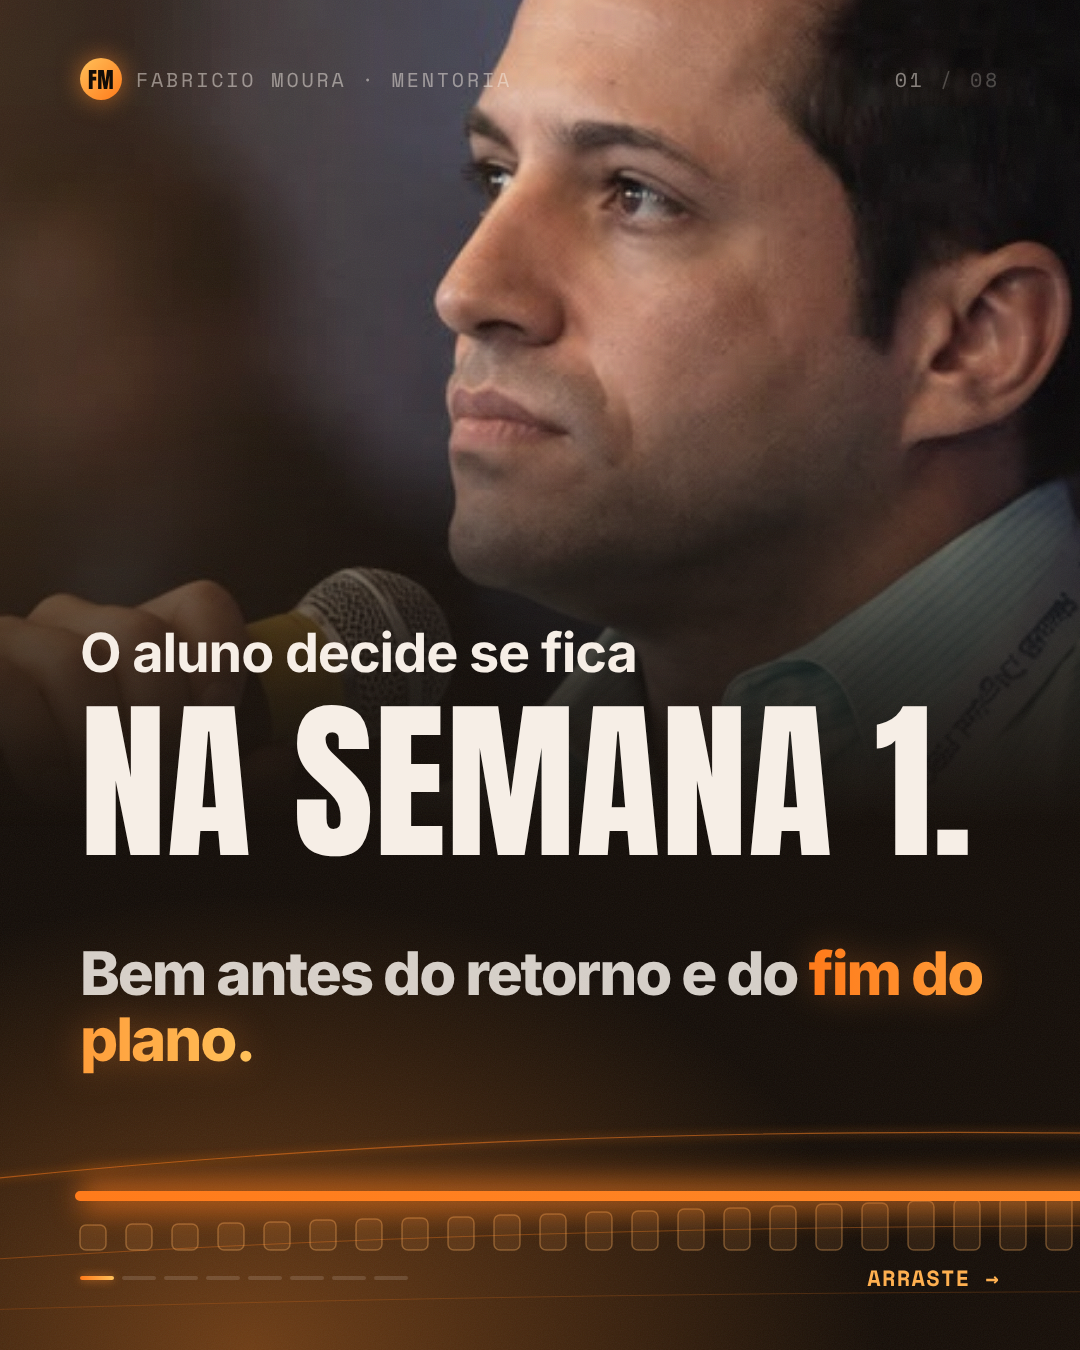
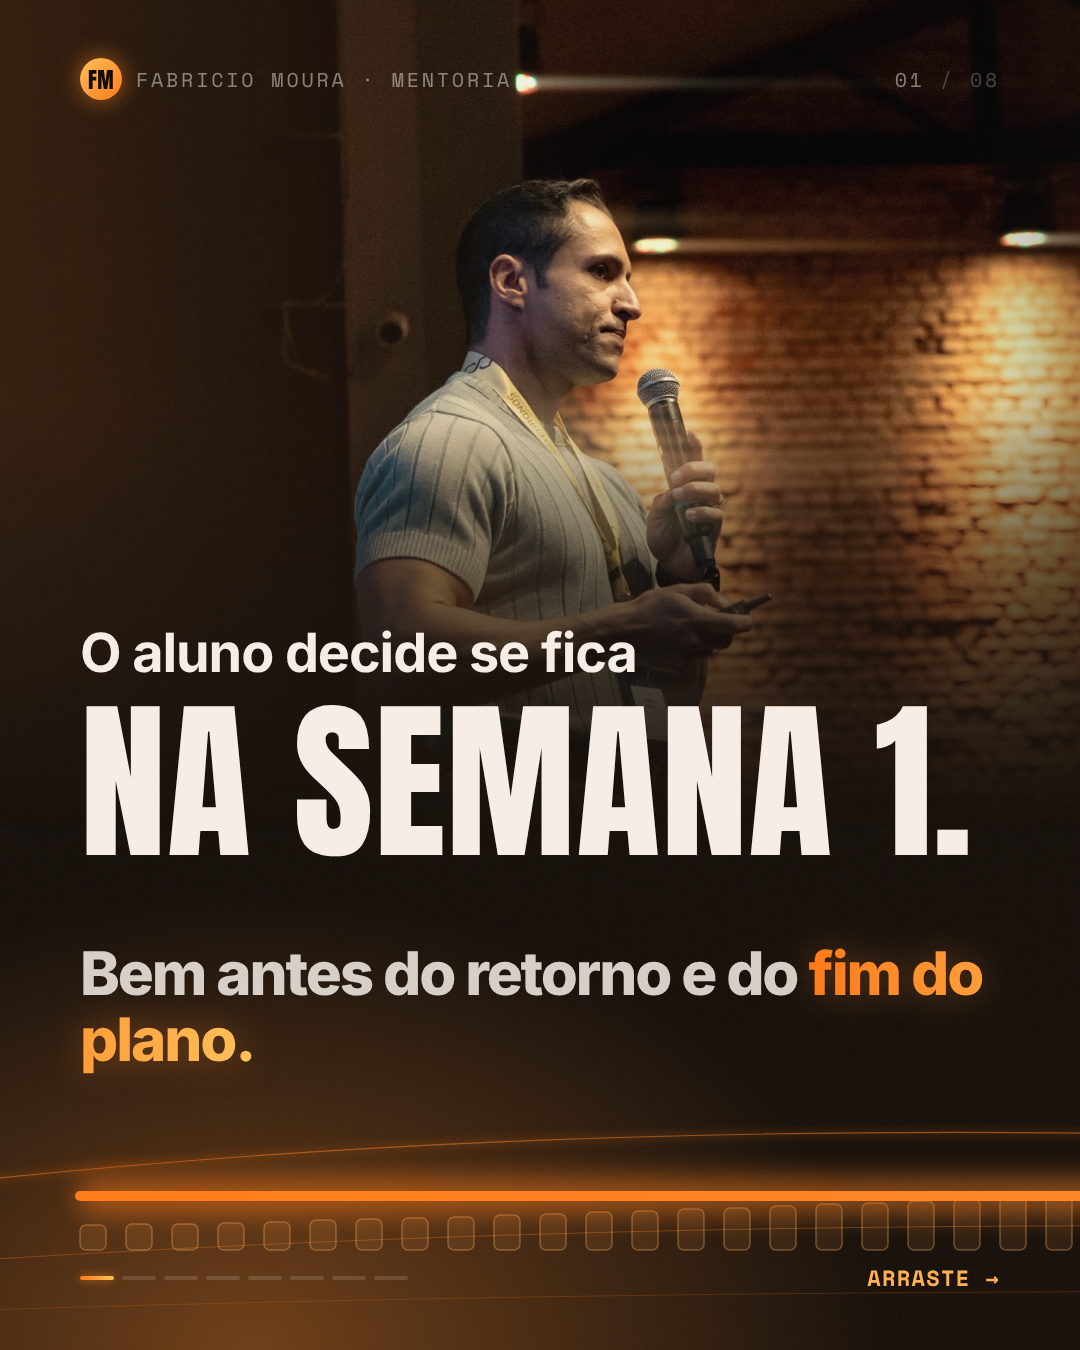
capas dos carrosseis 5, 6 e 7 com fotos novas em alta
Claude-Session: https://claude.ai/code/session_01RK2kDXjzsRYiZHiUi196vp

diff --git a/marketing/instagram/business/c07-4-numeros-glassflow/index.html b/marketing/instagram/business/c07-4-numeros-glassflow/index.html
@@ -161,10 +161,10 @@ svg#flow{position:absolute;left:0;top:0;pointer-events:none;z-index:4}
 .flowph{filter:sepia(.25) saturate(1.1)}
 </style></head>
 <body><div id="pano">
-<div class="flowph" style="background-image:url(../fotos/trofeus.jpg)"></div>
+<div class="flowph" style="background-image:url(../fotos/palco-microfone.jpg)"></div>
 <div class="cblock orange" style="left:3170px;width:1220px;clip-path:polygon(70px 0,100% 0,1150px 100%,0 100%)"></div><div class="cblock cream" style="left:5330px;width:1220px;clip-path:polygon(70px 0,100% 0,1150px 100%,0 100%)"></div>
 <section class="s k-cover" style="left:0px">
-<div class="photo" style="background-image:url(../fotos/trofeus.jpg)"></div>
+<div class="photo" style="background-image:url(../fotos/palco-microfone.jpg)"></div>
 <div class="a chrome mono"><span class="brand"><b>FM</b>Fabricio Moura · Mentoria</span><span>01 <em>/ 08</em></span></div>
 <div class="a top"><div style="font-size:54px;font-weight:700;letter-spacing:-.02em">Olhar só o faturamento é ver</div><div class="H" style="font-size:228px;line-height:1;white-space:nowrap">tarde demais.</div></div>
 <div class="a low"><div class="B" style="font-size:72px;line-height:1.1;font-weight:800;letter-spacing:-.035em">Ele é o resultado. Esses <span class="r">4 números</span> mostram antes.</div><div style="flex:1"></div><div class="lab" style="color:var(--mute)">Mentalidade de empresário</div></div>

diff --git a/marketing/instagram/business/c05-semana-1-glassflow/index.html b/marketing/instagram/business/c05-semana-1-glassflow/index.html
@@ -161,10 +161,10 @@ svg#flow{position:absolute;left:0;top:0;pointer-events:none;z-index:4}
 .flowph{filter:sepia(.25) saturate(1.1)}
 </style></head>
 <body><div id="pano">
-<div class="flowph" style="background-image:url(../fotos/palco.jpg)"></div>
+<div class="flowph" style="background-image:url(../fotos/palco-tijolo.jpg)"></div>
 <div class="cblock orange" style="left:3170px;width:1220px;clip-path:polygon(70px 0,100% 0,1150px 100%,0 100%)"></div><div class="cblock cream" style="left:5330px;width:1220px;clip-path:polygon(70px 0,100% 0,1150px 100%,0 100%)"></div>
 <section class="s k-cover" style="left:0px">
-<div class="photo" style="background-image:url(../fotos/palco.jpg)"></div>
+<div class="photo" style="background-image:url(../fotos/palco-tijolo.jpg)"></div>
 <div class="a chrome mono"><span class="brand"><b>FM</b>Fabricio Moura · Mentoria</span><span>01 <em>/ 08</em></span></div>
 <div class="a top"><div style="font-size:54px;font-weight:700;letter-spacing:-.02em">O aluno decide se fica</div><div class="H" style="font-size:240px;line-height:1;white-space:nowrap">na semana 1.</div></div>
 <div class="a low"><div class="B" style="font-size:72px;line-height:1.1;font-weight:800;letter-spacing:-.035em">Bem antes do retorno e do <span class="r">fim do plano.</span></div><div style="flex:1"></div><div class="lab" style="color:var(--mute)">A estrutura de uma boa consultoria online</div></div>

diff --git a/marketing/instagram/business/c06-renovacao-glassflow/index.html b/marketing/instagram/business/c06-renovacao-glassflow/index.html
@@ -161,10 +161,10 @@ svg#flow{position:absolute;left:0;top:0;pointer-events:none;z-index:4}
 .flowph{filter:sepia(.25) saturate(1.1)}
 </style></head>
 <body><div id="pano">
-<div class="flowph" style="background-image:url(../fotos/celular.jpg)"></div>
+<div class="flowph" style="background-image:url(../fotos/retrato.jpg)"></div>
 <div class="cblock orange" style="left:3170px;width:1220px;clip-path:polygon(70px 0,100% 0,1150px 100%,0 100%)"></div><div class="cblock cream" style="left:5330px;width:1220px;clip-path:polygon(70px 0,100% 0,1150px 100%,0 100%)"></div>
 <section class="s k-cover" style="left:0px">
-<div class="photo" style="background-image:url(../fotos/celular.jpg)"></div>
+<div class="photo" style="background-image:url(../fotos/retrato.jpg)"></div>
 <div class="a chrome mono"><span class="brand"><b>FM</b>Fabricio Moura · Mentoria</span><span>01 <em>/ 08</em></span></div>
 <div class="a top"><div style="font-size:54px;font-weight:700;letter-spacing:-.02em">Renovação</div><div class="H" style="font-size:258px;line-height:1;white-space:nowrap">se planeja.</div></div>
 <div class="a low"><div class="B" style="font-size:72px;line-height:1.1;font-weight:800;letter-spacing:-.035em">E começa no <span class="r">primeiro dia</span> do plano.</div><div style="flex:1"></div><div class="lab" style="color:var(--mute)">A estrutura de uma boa consultoria online</div></div>

diff --git a/marketing/instagram/business/posts.py b/marketing/instagram/business/posts.py
@@ -101,7 +101,7 @@ Regra simples: no máximo 24 horas entre o pagamento e o seu primeiro contato.
 
 Teste: compra o seu próprio serviço e anota o que você recebe e quando."""+CTA,
   "slides": [
-    {"k":"cover","photo":"palco.jpg","kicker":"O aluno decide se fica","big":"na semana 1.","bs":240,"sub":"Bem antes do retorno e do [[fim do plano.]]","lab":"A estrutura de uma boa consultoria online"},
+    {"k":"cover","photo":"palco-tijolo.jpg","kicker":"O aluno decide se fica","big":"na semana 1.","bs":240,"sub":"Bem antes do retorno e do [[fim do plano.]]","lab":"A estrutura de uma boa consultoria online"},
     {"k":"stmt","H":"Pagou e ficou dias [[sem notícia?]]","B":"É aí que nasce o arrependimento. A pessoa estava empolgada e o silêncio esfria. **Quem esfria na semana 1 raramente renova.**"},
     {"k":"stmt","H":"O que precisa [[acontecer.]]","items":["Boas-vindas no mesmo dia do pagamento.","Prazo claro de quando o plano chega.","Uma vitória pequena nos primeiros 7 dias."]},
     {"k":"red","lab":"A regra","H":"24 horas.","hs":276,"B":"É o tempo máximo entre o pagamento e o seu primeiro contato. **Pode ser uma mensagem pronta, mas tem que chegar.**"},
@@ -124,7 +124,7 @@ Exemplo ilustrativo: com 40 alunos, sair de 30% pra 60% de renovação são 12 a
 
 Qual é a sua taxa de renovação hoje?"""+CTA,
   "slides": [
-    {"k":"cover","photo":"celular.jpg","kicker":"Renovação","big":"se planeja.","bs":258,"sub":"E começa no [[primeiro dia]] do plano.","lab":"A estrutura de uma boa consultoria online"},
+    {"k":"cover","photo":"retrato.jpg","kicker":"Renovação","big":"se planeja.","bs":258,"sub":"E começa no [[primeiro dia]] do plano.","lab":"A estrutura de uma boa consultoria online"},
     {"k":"stmt","H":"Pedir no fim do plano [[é tarde.]]","B":"Se a pessoa chegou no último mês sem saber o que vem depois, a decisão de sair já foi tomada. **Você só fica sabendo agora.**"},
     {"k":"stmt","H":"Como [[planejar.]]","items":["Mostre a jornada inteira logo no início.","Marque a evolução a cada mês.","Apresente a próxima fase antes do fim."]},
     {"k":"red","lab":"Exemplo ilustrativo · 40 alunos","H":"De 30% pra 60%","nw":1,"hs":168,"big":"= 12 alunos a mais.","bigs":132,"B":"Por ciclo, **sem gastar um real pra trazer gente nova.** Por isso renovação vem antes de captação."},
@@ -146,7 +146,7 @@ Se as vendas caem, você sabe onde olhar: chegou menos gente ou converteu menos?
 
 Uma planilha, 4 colunas, 10 minutos toda segunda."""+CTA,
   "slides": [
-    {"k":"cover","photo":"trofeus.jpg","kicker":"Olhar só o faturamento é ver","big":"tarde demais.","bs":228,"sub":"Ele é o resultado. Esses [[4 números]] mostram antes.","lab":"Mentalidade de empresário"},
+    {"k":"cover","photo":"palco-microfone.jpg","kicker":"Olhar só o faturamento é ver","big":"tarde demais.","bs":228,"sub":"Ele é o resultado. Esses [[4 números]] mostram antes.","lab":"Mentalidade de empresário"},
     {"k":"stmt","H":"Faturamento é [[só o placar.]]","B":"Quando ele cai, o problema começou semanas antes. **Quem olha só o placar descobre tarde.**"},
     {"k":"stmt","H":"Os 4 [[números.]]","hs":180,"items":["Contatos novos na semana.","Quantos viraram venda.","Alunos ativos.","Quantos renovaram."]},
     {"k":"red","lab":"Exemplo ilustrativo","H":"20 contatos × 25%","nw":1,"hs":144,"big":"= 5 vendas.","bigs":180,"B":"Se as vendas caem, você sabe onde olhar: **chegou menos gente ou converteu menos?** São problemas diferentes."},
